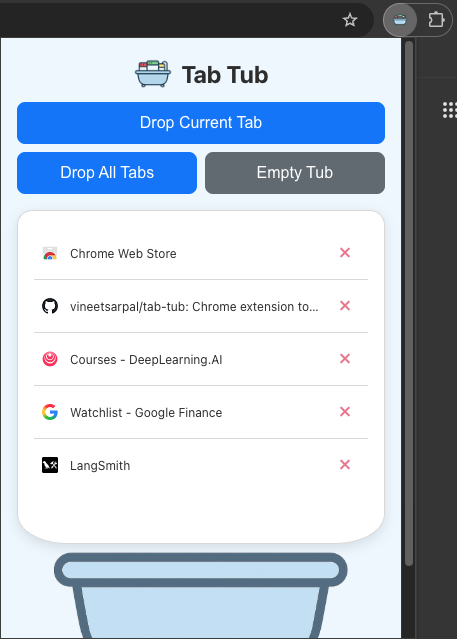
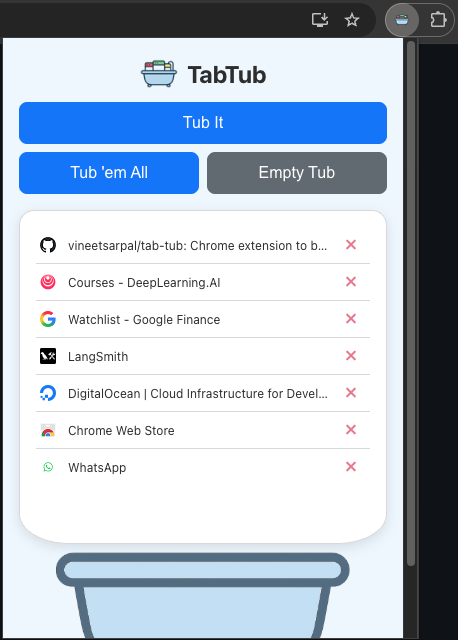
Reduce spacing b/w saved tabs, new screenshot

diff --git a/src/App.jsx b/src/App.jsx
@@ -88,10 +88,10 @@ function App() {
         <h1>TabTub</h1>
       </header>
       <div className="top-buttons">
-        <button onClick={dropTab} className="action-button full-width">Drop Current Tab</button>
+        <button onClick={dropTab} className="action-button full-width">Tub It</button>
       </div>
       <div className="button-group split-buttons">
-        <button onClick={dropAllTabs} className="action-button">Drop ALL Tabs</button>
+        <button onClick={dropAllTabs} className="action-button">Tub 'em All</button>
         <button onClick={emptyTub} className="action-button secondary">Empty Tub</button>
       </div>
       <div className="tub-wrapper">

diff --git a/src/App.css b/src/App.css
@@ -132,7 +132,7 @@ body {
 .tab-item {
   display: flex;
   align-items: center;
-  padding: 0.75rem 0.5rem;
+  padding: 0.25rem 0.25rem;
   border-bottom: 1px solid var(--border-color);
   transition: background-color 0.2s ease;
 }
